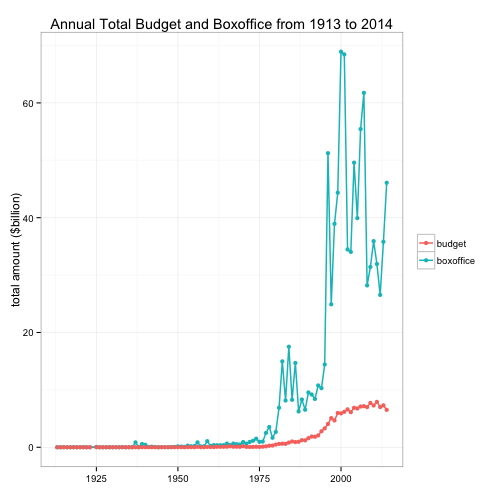
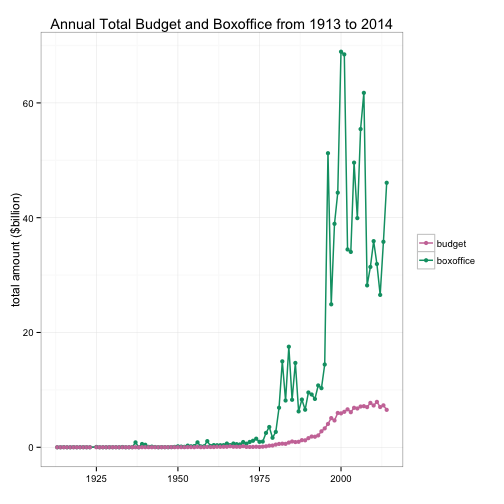
update ezplot - part 6

diff --git a/_posts/r/2015-06-26-how-to-easily-make-ggplot2-timeseries-plot-ezplot-part6.md b/_posts/r/2015-06-26-how-to-easily-make-ggplot2-timeseries-plot-ezplot-part6.md
@@ -68,7 +68,10 @@ scale_axis(p, scale = "log")
 {% highlight r %}
 plt = mk_lineplot(btbo_by_year)
 title = "Annual Total Budget and Boxoffice from 1913 to 2014"
-plt("year", "tot", "type", ylab="total amount ($billion)", main=title)
+red = cb_color("reddish_purple")
+green = cb_color("bluish_green")
+plt("year", "tot", "type", ylab="total amount ($billion)", main=title) + 
+        ggplot2::scale_color_manual(values=c(red, green))
 {% endhighlight %}
 
 ![center](/../figs/2015-06-26-how-to-easily-make-ggplot2-timeseries-plot-ezplot-part6/unnamed-chunk-6-1.png) 
